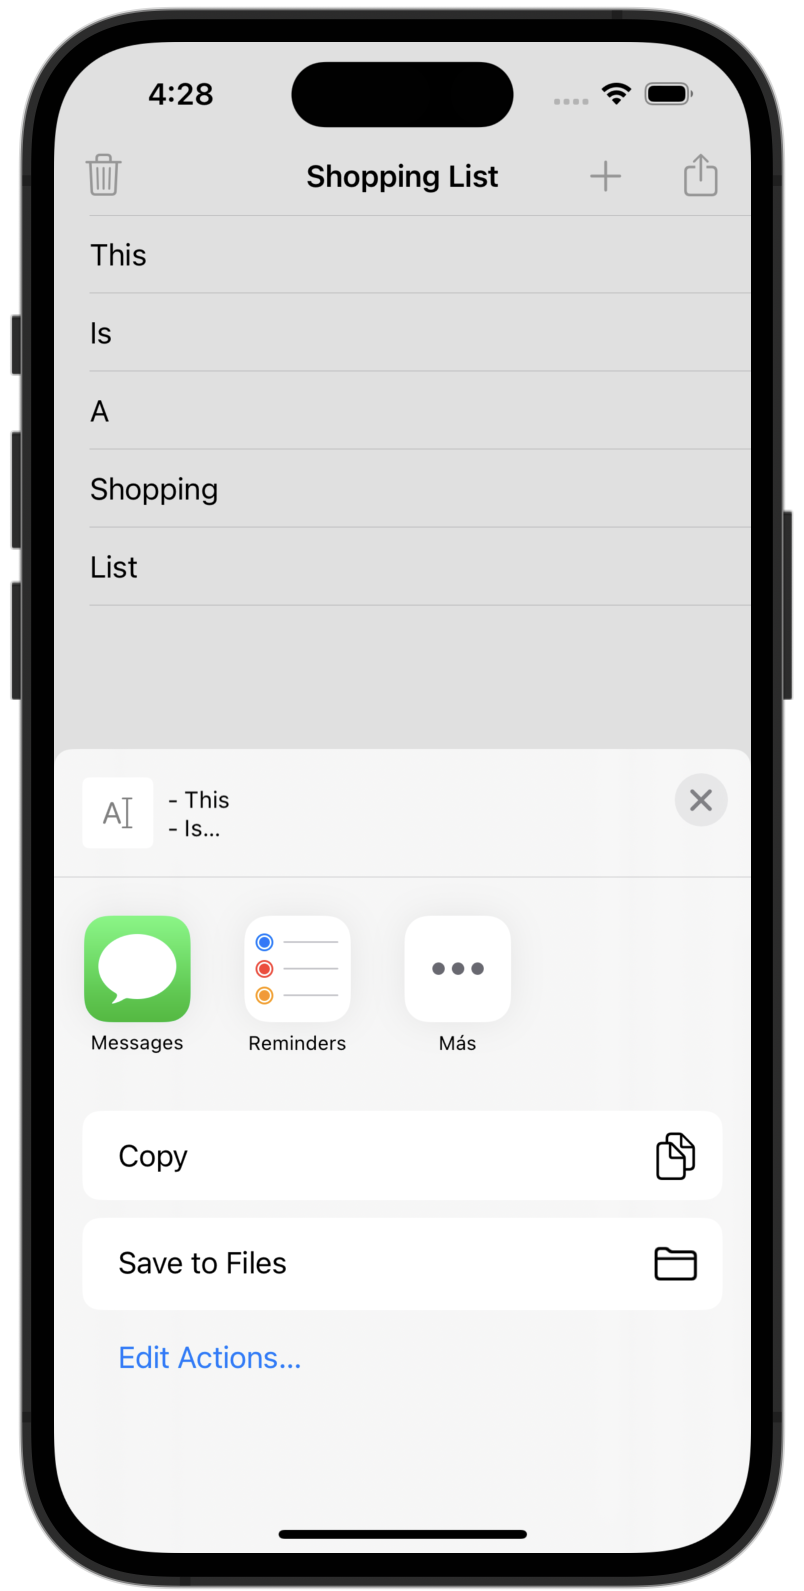
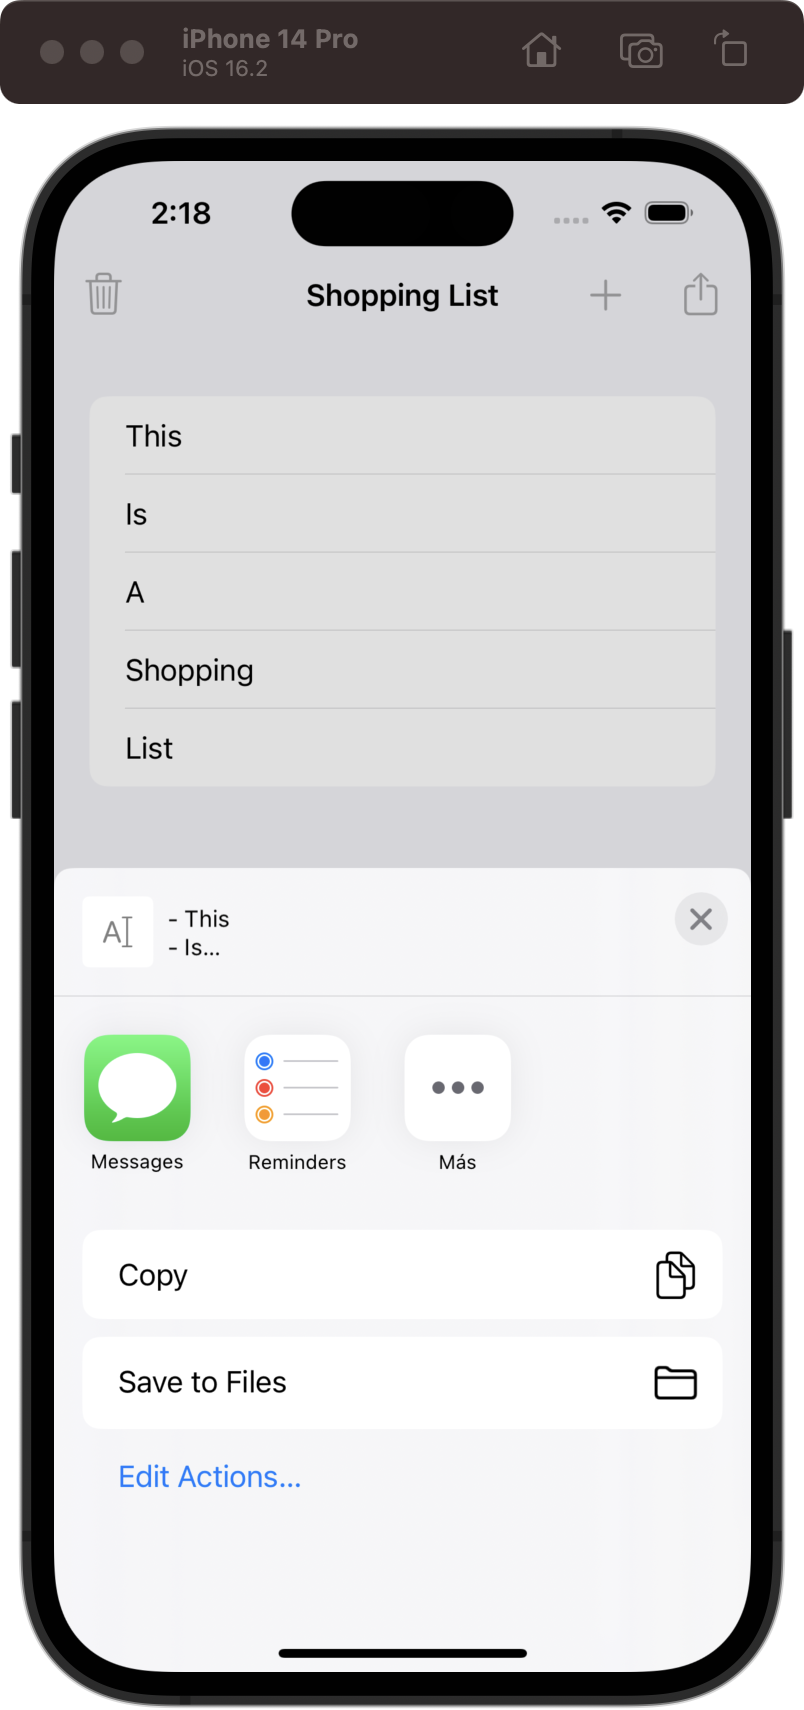
Change UITableView style and update screenshots

diff --git a/MilestoneProjects/02-ShoppingList/ShoppingList/UITableView+Ext.swift b/MilestoneProjects/02-ShoppingList/ShoppingList/UITableView+Ext.swift
@@ -1,0 +1,33 @@
+//
+//  UITableView+Ext.swift
+//  ShoppingList
+//
+//  Created by JC on 9/4/23.
+//
+
+import Foundation
+
+import UIKit.UITableView
+
+extension UITableView {
+    func setEmptyMessage(_ message: String) {
+        let messageLabel = UILabel(frame: CGRect(x: 0,
+                                                 y: 0,
+                                                 width: self.bounds.size.width,
+                                                 height: self.bounds.size.height))
+        messageLabel.text = message
+        messageLabel.textColor = .systemGray
+        messageLabel.font = UIFont.systemFont(ofSize: 26)
+        messageLabel.numberOfLines = 0
+        messageLabel.textAlignment = .center
+        messageLabel.sizeToFit()
+        self.backgroundView = messageLabel
+        self.separatorStyle = .none
+    }
+    
+    func restoreInitialState() {
+        self.backgroundView = nil
+        self.separatorStyle = .singleLine
+    }
+}
+

diff --git a/MilestoneProjects/02-ShoppingList/ShoppingList/ViewController.swift b/MilestoneProjects/02-ShoppingList/ShoppingList/ViewController.swift
@@ -123,6 +123,12 @@ class ViewController: UITableViewController {
 extension ViewController {
     
     override func tableView(_ tableView: UITableView, numberOfRowsInSection section: Int) -> Int {
+        if items.count == 0 {
+            tableView.setEmptyMessage("No Results")
+        } else {
+            tableView.restoreInitialState()
+        }
+        
         return items.count
     }
     

diff --git a/MilestoneProjects/02-ShoppingList/README.md b/MilestoneProjects/02-ShoppingList/README.md
@@ -53,5 +53,6 @@
 
 <div align="center">
   <img src="./Screenshots/4.png" alt="Edit action" width="325">
-  <img src="./Screenshots/5.gif" alt="Delete action" width="325">
+  <img src="./Screenshots/5.png" alt="Delete action" width="325">
+  <img src="./Screenshots/6.png" alt="Delete action" width="325">
 </div>
